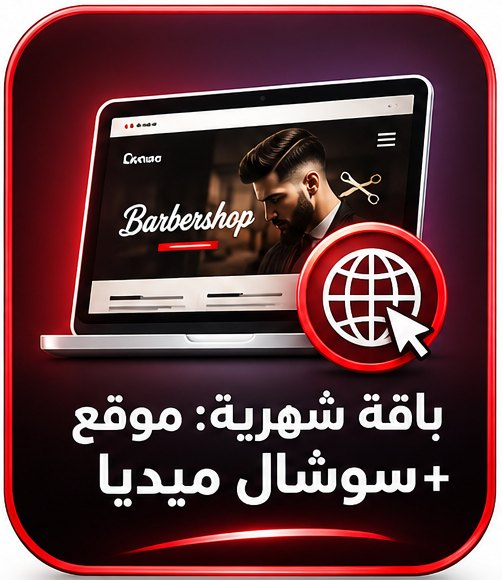
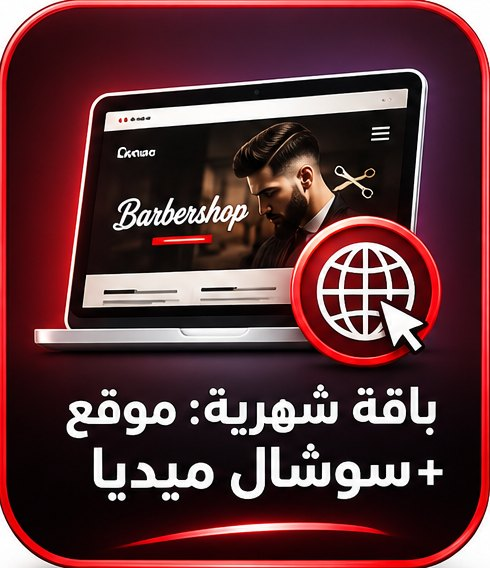
Show package images on the website and social media category boxes
Claude-Session: https://claude.ai/code/session_01S6SQNRuypTbGYp7LEotX1G

Changed region(s): [[0.0, 0.0, 1.0, 1.0], [0.2143, 0.4789, 0.551, 0.5387], [0.398, 0.2993, 0.4286, 0.3292]]

diff --git a/index.html b/index.html
@@ -66,7 +66,7 @@ button:focus-visible,.btn:focus-visible,input:focus-visible,.tab:focus-visible{o
 .card .thumb{height:120px;border-radius:12px;background:var(--soft);display:grid;place-items:center}
 .card .thumb svg{width:86px;height:86px}
 .card .thumb.pic{height:auto;background:none}
-.card .thumb.pic img{display:block;width:100%;max-width:280px;height:auto;aspect-ratio:500/580;object-fit:cover;border-radius:18px;margin:0 auto}
+.card .thumb.pic img{display:block;width:100%;max-width:280px;height:auto;aspect-ratio:500/580;object-fit:cover;border-radius:42px;margin:0 auto}
 .card p{margin:0;color:var(--mute);font-size:15px}
 .card ul{margin:0;padding-inline-start:18px;color:var(--mute);font-size:14px}
 .tag{position:absolute;top:12px;inset-inline-start:12px;background:var(--cedar);color:#fff;font-size:13px;font-weight:600;border-radius:99px;padding:2px 10px}
@@ -88,6 +88,7 @@ button:focus-visible,.btn:focus-visible,input:focus-visible,.tab:focus-visible{o
 .box:hover{transform:translateY(-4px)}
 .box:focus-visible{outline:3px solid var(--cedar);outline-offset:3px}
 .box svg{width:92px;height:92px;background:#ffffff;border-radius:18px;padding:6px}
+.box .face{display:block;width:100%;max-width:300px;height:auto;aspect-ratio:500/580;object-fit:cover;border-radius:42px;margin:0 auto 4px}
 .box h3{font-size:24px;margin:6px 0 0;font-family:Alexandria,sans-serif}
 .box p{margin:0;color:#ffffffd9;font-size:15px}
 .box .go{margin-top:auto;display:flex;justify-content:space-between;align-items:center;font-weight:600}
@@ -270,8 +271,8 @@ const ic={
 };
 const cats=[['web','مواقع ومتاجر'],['social','سوشال ميديا'],['qr','QR وNFC']];
 const boxInfo={
- web:{i:'web',d:'موقع تعريفي، موقع مع حجز، موقع شركة أو متجر أونلاين.',from:'بيبلّش من $200'},
- social:{i:'social',d:'إدارة إنستغرام وفيسبوك وتيك توك، أو باقة شهرية مع موقع.',from:'السعر عالطلب'},
+ web:{i:'web',img:'img/pkg-bundle.jpg',d:'موقع تعريفي، موقع مع حجز، موقع شركة أو متجر أونلاين.',from:'بيبلّش من $200'},
+ social:{i:'social',img:'img/pkg-smm.jpg',d:'إدارة إنستغرام وفيسبوك وتيك توك، أو باقة شهرية مع موقع.',from:'السعر عالطلب'},
  qr:{i:'nfc',d:'ستاندات، كروت وستيكرات بتفتح رابطك بمسحة أو بلمسة.',from:'بيبلّش من $5'}
 };
 const P=[
@@ -297,7 +298,7 @@ let cat=null;let cart=[];
 try{cart=JSON.parse(localStorage.getItem('m3cart')||'[]')}catch(e){cart=[]}
 const save=()=>{try{localStorage.setItem('m3cart',JSON.stringify(cart))}catch(e){}};
 function tabs(){$('#tabs').innerHTML=cats.map(([k,l])=>`<button class="tab" role="tab" data-k="${k}" aria-selected="${k===cat}">${l}</button>`).join('')}
-function boxes(){$('#boxes').innerHTML=cats.map(([k,l])=>{const b=boxInfo[k],n=P.filter(p=>p.c===k).length;return `<a class="box b-${k}" href="#${k}"><svg viewBox="0 0 86 86" aria-hidden="true">${ic[b.i]}</svg><h3>${l}</h3><p>${b.d}</p><div class="go"><span>${n} منتجات · ${b.from}</span><b>فوت ←</b></div></a>`}).join('')}
+function boxes(){$('#boxes').innerHTML=cats.map(([k,l])=>{const b=boxInfo[k],n=P.filter(p=>p.c===k).length;return `<a class="box b-${k}" href="#${k}">${b.img?`<img class="face" src="${b.img}" alt="" width="500" height="580">`:`<svg viewBox="0 0 86 86" aria-hidden="true">${ic[b.i]}</svg>`}<h3>${l}</h3><p>${b.d}</p><div class="go"><span>${n} منتجات · ${b.from}</span><b>فوت ←</b></div></a>`}).join('')}
 function route(){
  const h=location.hash.slice(1);const ok=cats.some(c=>c[0]===h);
  if(!ok&&cat===null&&h!=='store'){ $('#catsView').hidden=false;$('#prodView').hidden=true;return}
